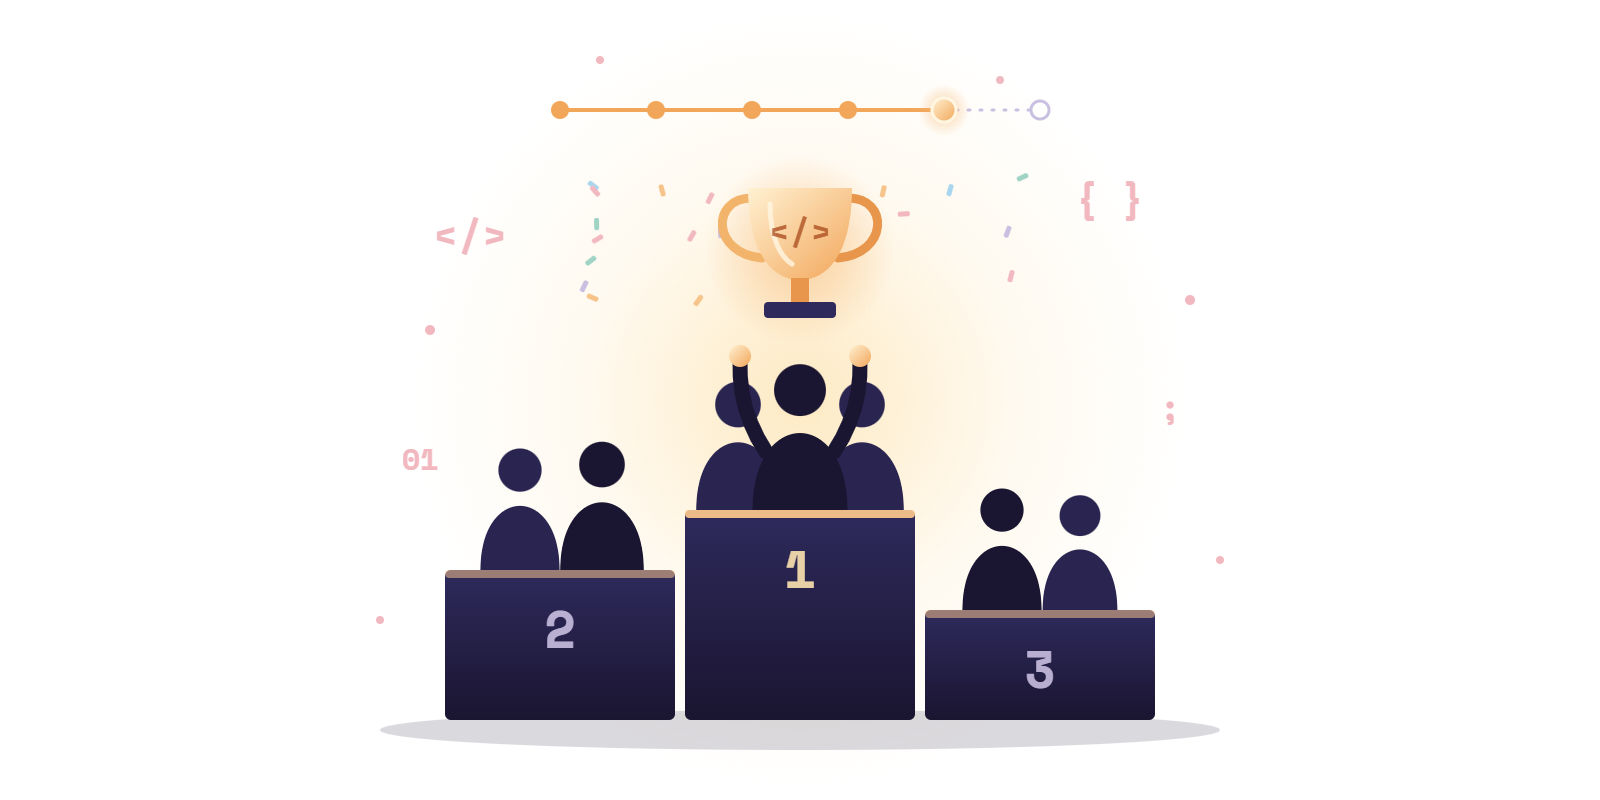
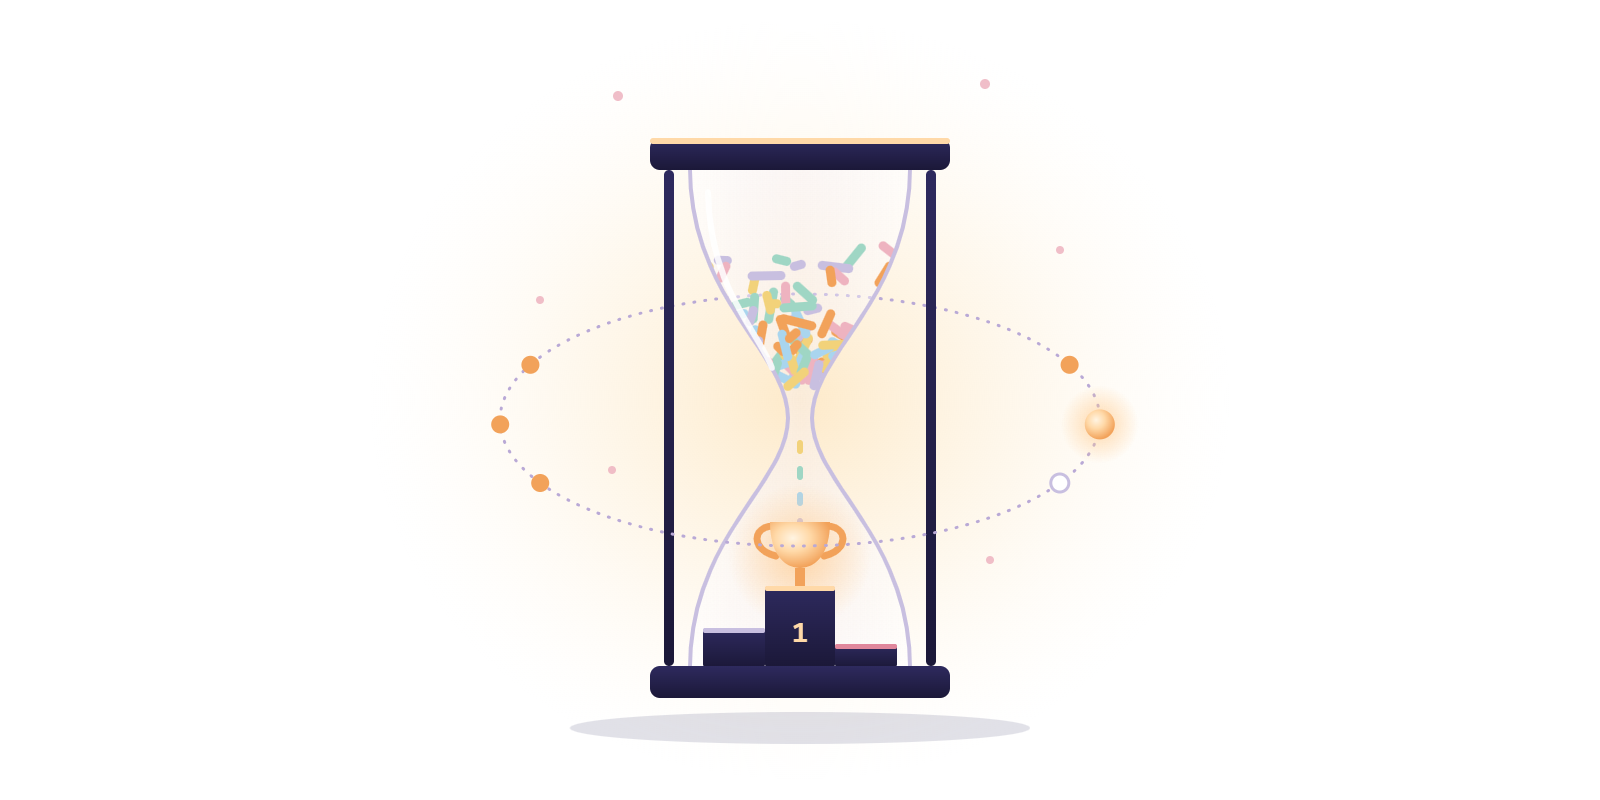
Update footer

diff --git a/src/styles/components.css b/src/styles/components.css
@@ -573,45 +573,159 @@ a.card:hover {
 
 /* ---------- FOOTER: onda ---------- */
 .footer-wave {
+  --wave-h: clamp(3.6rem, 7vw, 5.5rem);
+
   position: relative;
-  height: 3.4rem;
+  height: var(--wave-h);
   margin-top: var(--space-2xl);
   margin-bottom: -1px;
+
+  /* Le onde sbordano ai lati: si tagliano in orizzontale senza allargare la pagina
+     (overflow-x: clip non crea scroll e lascia liberi gli astri sopra). */
+  overflow-x: clip;
 }
 
-.footer-wave__svg {
+.footer-wave__defs {
   position: absolute;
-  inset: 0;
+  width: 0;
+  height: 0;
+}
+
+/* Il div copre 352 unità (due periodi) partendo da -112 rispetto ai 150 visibili,
+   e scorre di 175 unità (-90 → +85): i bordi del div non entrano mai in vista. */
+.footer-wave__layer {
+  position: absolute;
+  top: 0;
+  bottom: 0;
+  left: -74.67%;
+  width: 234.67%;
+  color: var(--footer-top);
+  transition: color var(--theme-duration) ease;
+  animation: wave-drift 20s cubic-bezier(0.55, 0.5, 0.45, 0.5) -5s infinite;
+}
+
+.footer-wave__layer svg {
+  display: block;
   width: 100%;
   height: 100%;
+  fill: currentcolor;
 }
 
-.footer-wave__svg path {
-  fill: var(--footer-top);
-  transition: fill var(--theme-duration) ease;
+/* La più lontana prende la tinta d'accento del footer: dà profondità anche di notte. */
+.footer-wave__layer--far {
+  color: var(--footer-heading);
+  opacity: 0.3;
+  animation-duration: 9s;
+  animation-delay: -2s;
 }
 
+.footer-wave__layer--mid {
+  opacity: 0.6;
+  animation-duration: 13s;
+  animation-delay: -4s;
+}
+
+/* L'onda si ripete ogni 176 unità (su 352 del div) e ne scorre 175: il salto non si vede. */
+@keyframes wave-drift {
+  from {
+    transform: translate3d(-25.57%, 0, 0);
+  }
+
+  to {
+    transform: translate3d(24.15%, 0, 0);
+  }
+}
+
+/* Astri sospesi: derivano a otto (su/giù e un po' di lato), l'alone respira con un ritmo
+   suo e sull'acqua sotto c'è un riflesso che si accende quando l'astro si abbassa. */
 .footer-wave__orb {
   position: absolute;
-  bottom: 1.3rem;
+  bottom: 52%;
+  left: var(--x);
   width: var(--size);
   height: var(--size);
-  left: var(--x);
   border-radius: 50%;
   background: radial-gradient(circle at 35% 35%, #fff, var(--accent) 60%, transparent 78%);
-  box-shadow: 0 0 12px 4px var(--glow);
   animation: orb-drift var(--dur) ease-in-out var(--delay) infinite;
   pointer-events: none;
 }
 
+/* Alone: un livello a parte, così si anima solo opacity/scale invece di ridisegnare l'ombra. */
+.footer-wave__orb::before {
+  content: '';
+  position: absolute;
+  inset: -60%;
+  border-radius: 50%;
+  background: radial-gradient(circle, var(--glow) 0%, transparent 70%);
+  animation: orb-breathe var(--glow-dur) ease-in-out var(--delay) infinite;
+}
+
+/* Riflesso sull'acqua, sotto l'astro: segue la sua discesa. */
+.footer-wave__glint {
+  position: absolute;
+  left: 50%;
+  top: calc(var(--size) + 0.7rem);
+  width: calc(var(--size) * 1.8);
+  height: calc(var(--size) * 0.28);
+  margin-left: calc(var(--size) * -0.9);
+  border-radius: 50%;
+  background: radial-gradient(closest-side, var(--accent), transparent);
+  opacity: 0.25;
+  animation: orb-glint var(--dur) ease-in-out var(--delay) infinite;
+}
+
+/* Il riflesso è figlio dell'astro: la sua traslazione verticale la compensa al contrario,
+   così resta a pelo d'acqua mentre l'astro sale e scende. */
 @keyframes orb-drift {
   0%,
   100% {
-    transform: translateY(0);
+    transform: translate(0, 0);
+  }
+
+  25% {
+    transform: translate(0.25rem, -0.35rem);
   }
 
   50% {
-    transform: translateY(-0.6rem);
+    transform: translate(0, -0.7rem);
+  }
+
+  75% {
+    transform: translate(-0.25rem, -0.35rem);
+  }
+}
+
+@keyframes orb-glint {
+  0%,
+  100% {
+    opacity: 0.45;
+    transform: translate(0, 0) scaleX(1);
+  }
+
+  25% {
+    transform: translate(0, 0.35rem) scaleX(0.85);
+  }
+
+  50% {
+    opacity: 0.12;
+    transform: translate(0, 0.7rem) scaleX(0.65);
+  }
+
+  75% {
+    transform: translate(0, 0.35rem) scaleX(0.85);
+  }
+}
+
+@keyframes orb-breathe {
+  0%,
+  100% {
+    opacity: 0.55;
+    transform: scale(0.85);
+  }
+
+  50% {
+    opacity: 1;
+    transform: scale(1.15);
   }
 }
 
@@ -814,10 +928,19 @@ html[data-theme='light'] .footer__stars {
   }
 }
 
+/* Footer fuori schermo: tutto fermo (vedi scripts/footer-wave.ts). */
+.footer-wave.is-offscreen *,
+.footer-wave.is-offscreen *::before {
+  animation-play-state: paused;
+}
+
 @media (prefers-reduced-motion: reduce) {
   .footer__stars,
   .footer__orb,
-  .footer-wave__orb {
+  .footer-wave__orb,
+  .footer-wave__orb::before,
+  .footer-wave__glint,
+  .footer-wave__layer {
     animation: none;
   }
 }

diff --git a/src/scripts/footer-wave.ts b/src/scripts/footer-wave.ts
@@ -1,30 +1,11 @@
-// L'onda del footer cambia forma lentamente (Web Animations API sulla proprietà CSS `d`).
+// Onde e astri del footer sono animazioni CSS infinite. Il footer è quasi sempre fuori schermo:
+// lì si mettono in pausa.
 export function initFooterWave() {
-  const path = document.getElementById('footerWavePath');
-  if (!path?.animate) return;
-  if (window.matchMedia('(prefers-reduced-motion: reduce)').matches) return;
+  const wave = document.querySelector<HTMLElement>('.footer-wave');
+  if (!wave || !('IntersectionObserver' in window)) return;
 
-  const shapes = [
-    'M0,40 C240,80 480,0 720,40 C960,80 1200,0 1440,40 L1440,100 L0,100 Z',
-    'M0,50 C240,10 480,90 720,50 C960,10 1200,90 1440,50 L1440,100 L0,100 Z',
-    'M0,30 C240,70 480,10 720,50 C960,90 1200,20 1440,60 L1440,100 L0,100 Z',
-  ];
-
-  let animation: Animation;
-  try {
-    animation = path.animate(
-      shapes.map((d) => ({ d: `path("${d}")` })),
-      { duration: 9000, easing: 'ease-in-out', iterations: Infinity, direction: 'alternate' }
-    );
-  } catch {
-    // Browser senza supporto all'animazione di `d` (Safari): l'onda resta ferma.
-    return;
-  }
-
-  // Animare `d` costa (gira sul main thread e ridipinge): la si ferma quando l'onda non si vede.
-  const wave = path.closest('svg') ?? path;
-  new IntersectionObserver(([entry]) => {
-    if (entry.isIntersecting) animation.play();
-    else animation.pause();
-  }).observe(wave);
+  new IntersectionObserver(
+    ([entry]) => wave.classList.toggle('is-offscreen', !entry.isIntersecting),
+    { rootMargin: '200px 0px' }
+  ).observe(wave);
 }

diff --git a/src/content/projects/hackhub.md b/src/content/projects/hackhub.md
@@ -11,7 +11,7 @@ links:
   - { label: GitHub, href: 'https://github.com/AlessioPiana54/HackHub' }
   - { label: Docs, href: 'https://github.com/AlessioPiana54/HackHub/wiki' }
 cover: ../../assets/img/hackhub.png
-coverAlt: A three-step podium with small teams of silhouettes, the winners raising their arms under a glowing trophy and a timeline of dots.
+coverAlt: An hourglass whose colorful code fragments fall through the neck into a glowing trophy on a podium, circled by an orbit of six milestones.
 coverSize: auto 100%
 coverPosition: center
 ---

diff --git a/src/content/projects/portfolio.md b/src/content/projects/portfolio.md
@@ -10,7 +10,7 @@ stack: [Astro, TypeScript, CSS, GitHub Pages]
 links:
   - { label: GitHub, href: 'https://github.com/AlessioPiana54/Portfolio' }
 cover: ../../assets/img/portfolio.png
-coverAlt: A browser window split between a starry night with a crescent moon and a sunny day over green hills, a pencil sketching a cloud and a theme switch beside it.
+coverAlt: A snow globe split by a yin-yang curve into a starry night with a crescent moon and a sunny day, over the same rolling hills.
 coverSize: auto 100%
 coverPosition: center
 ---
